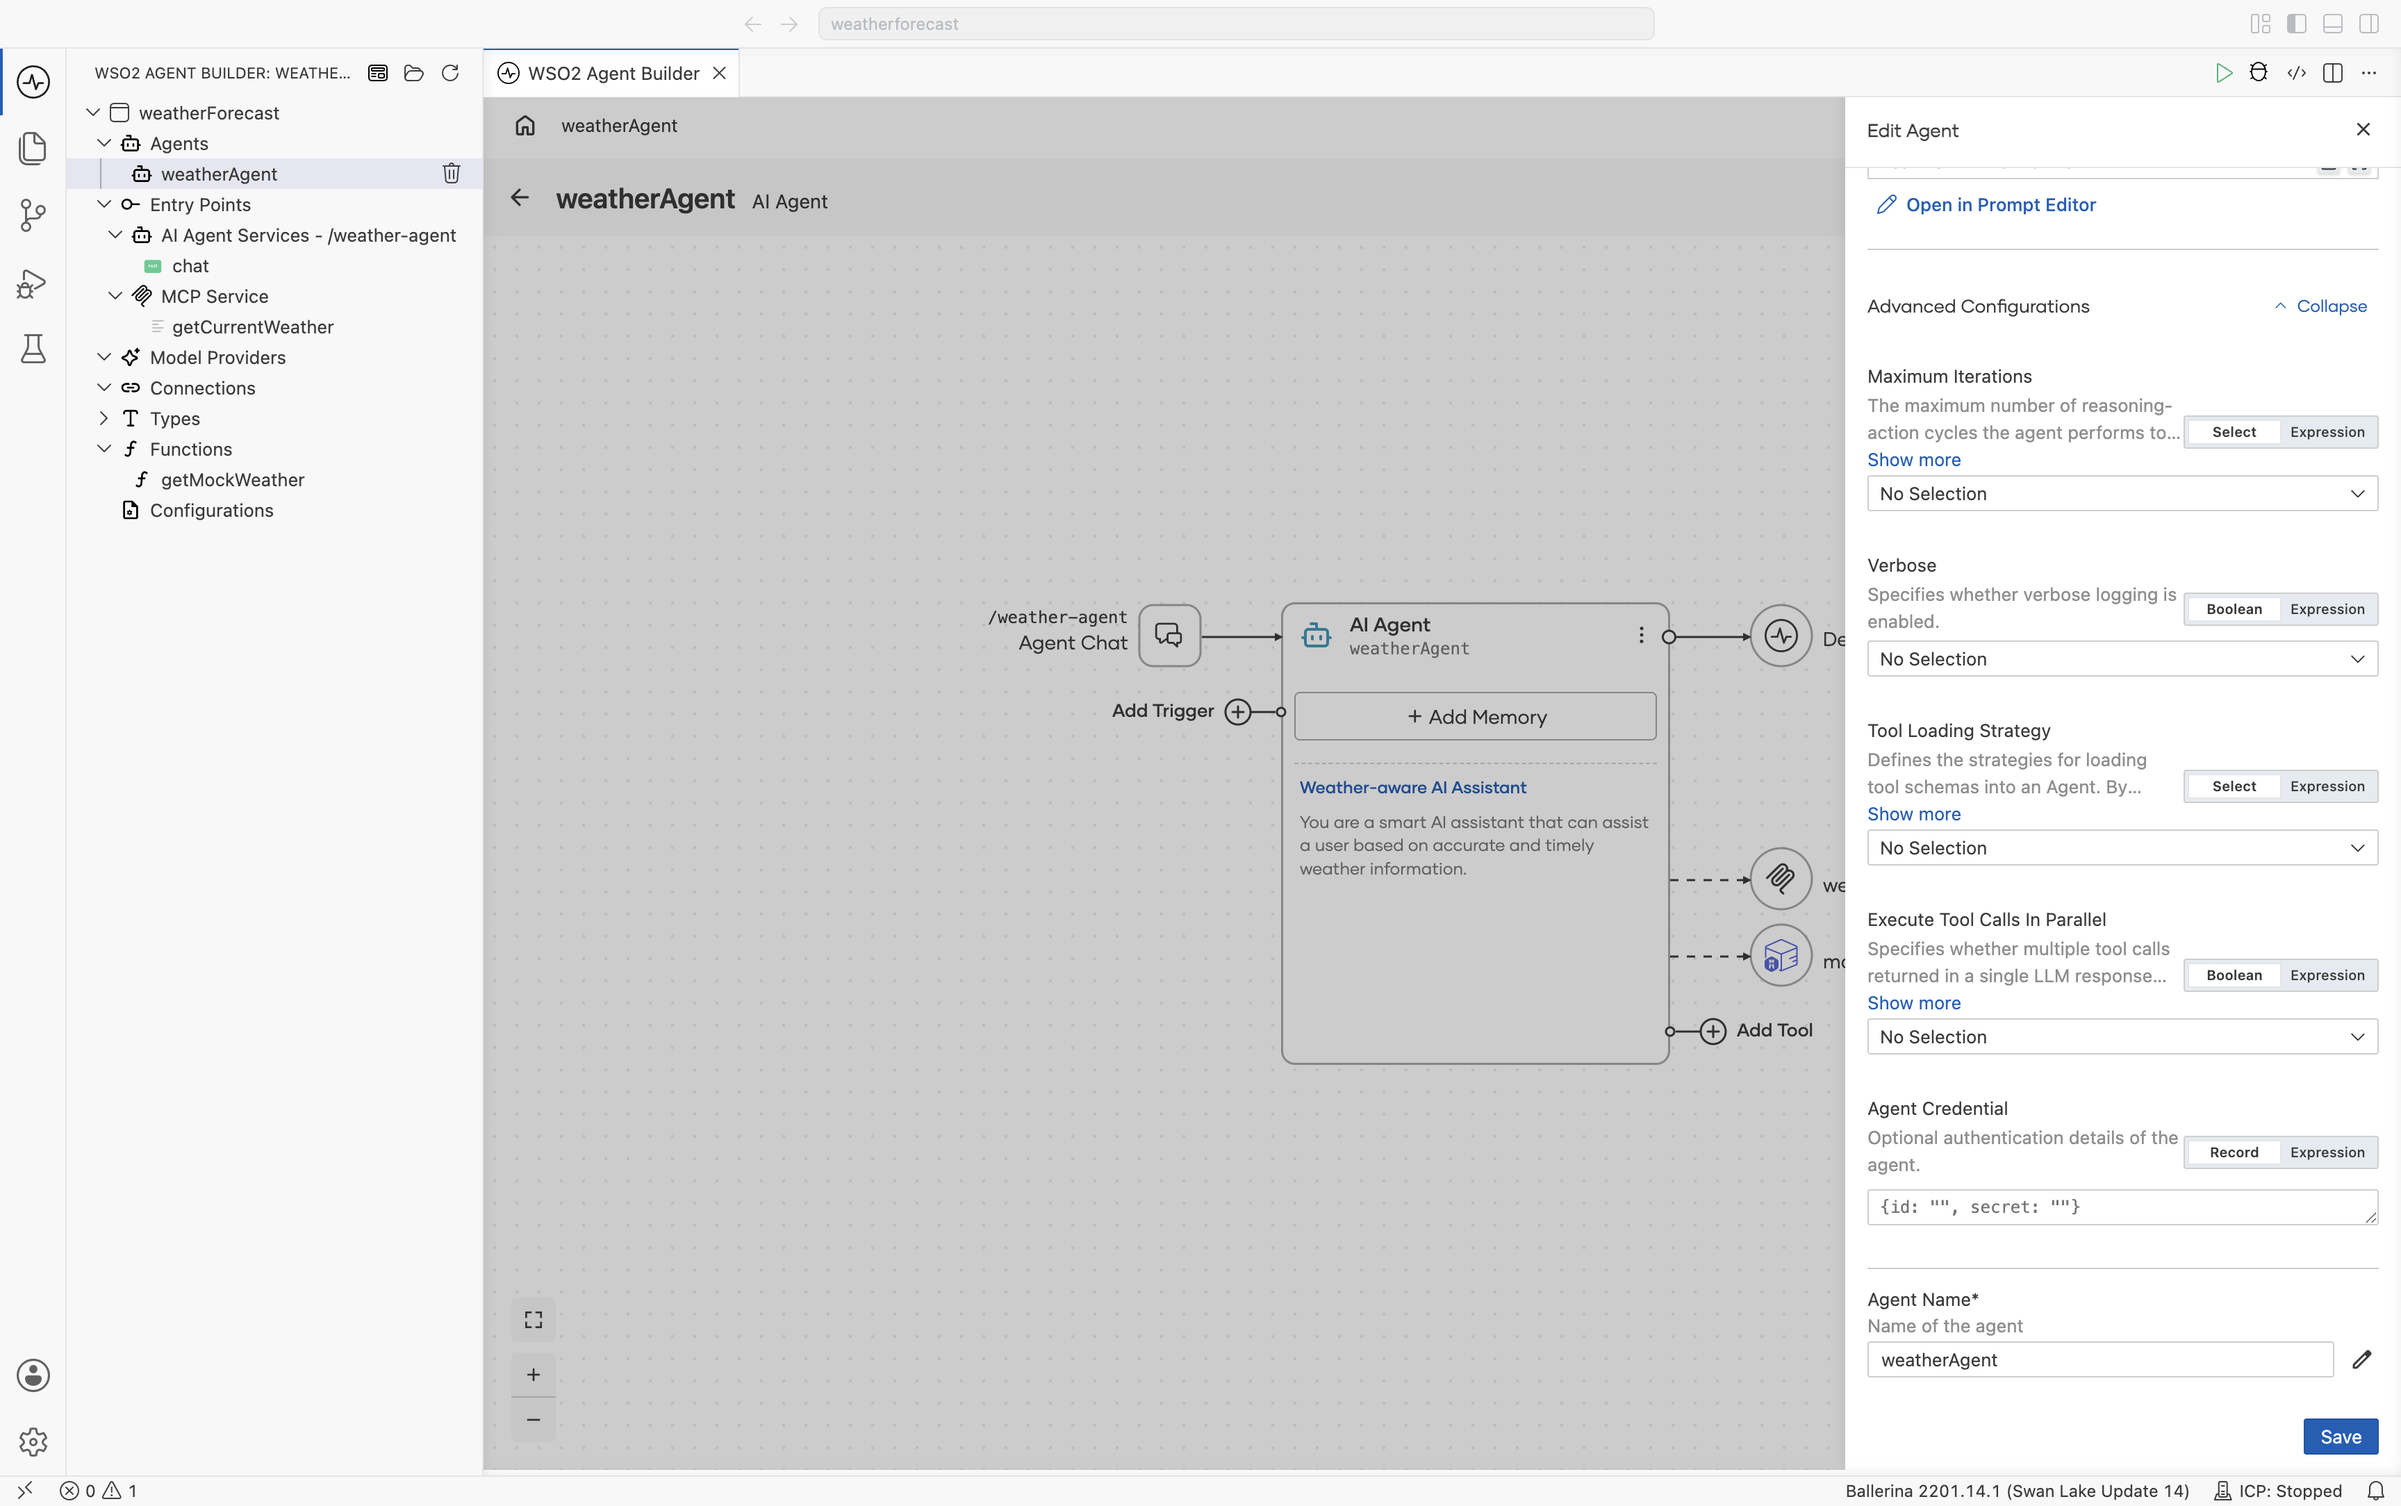
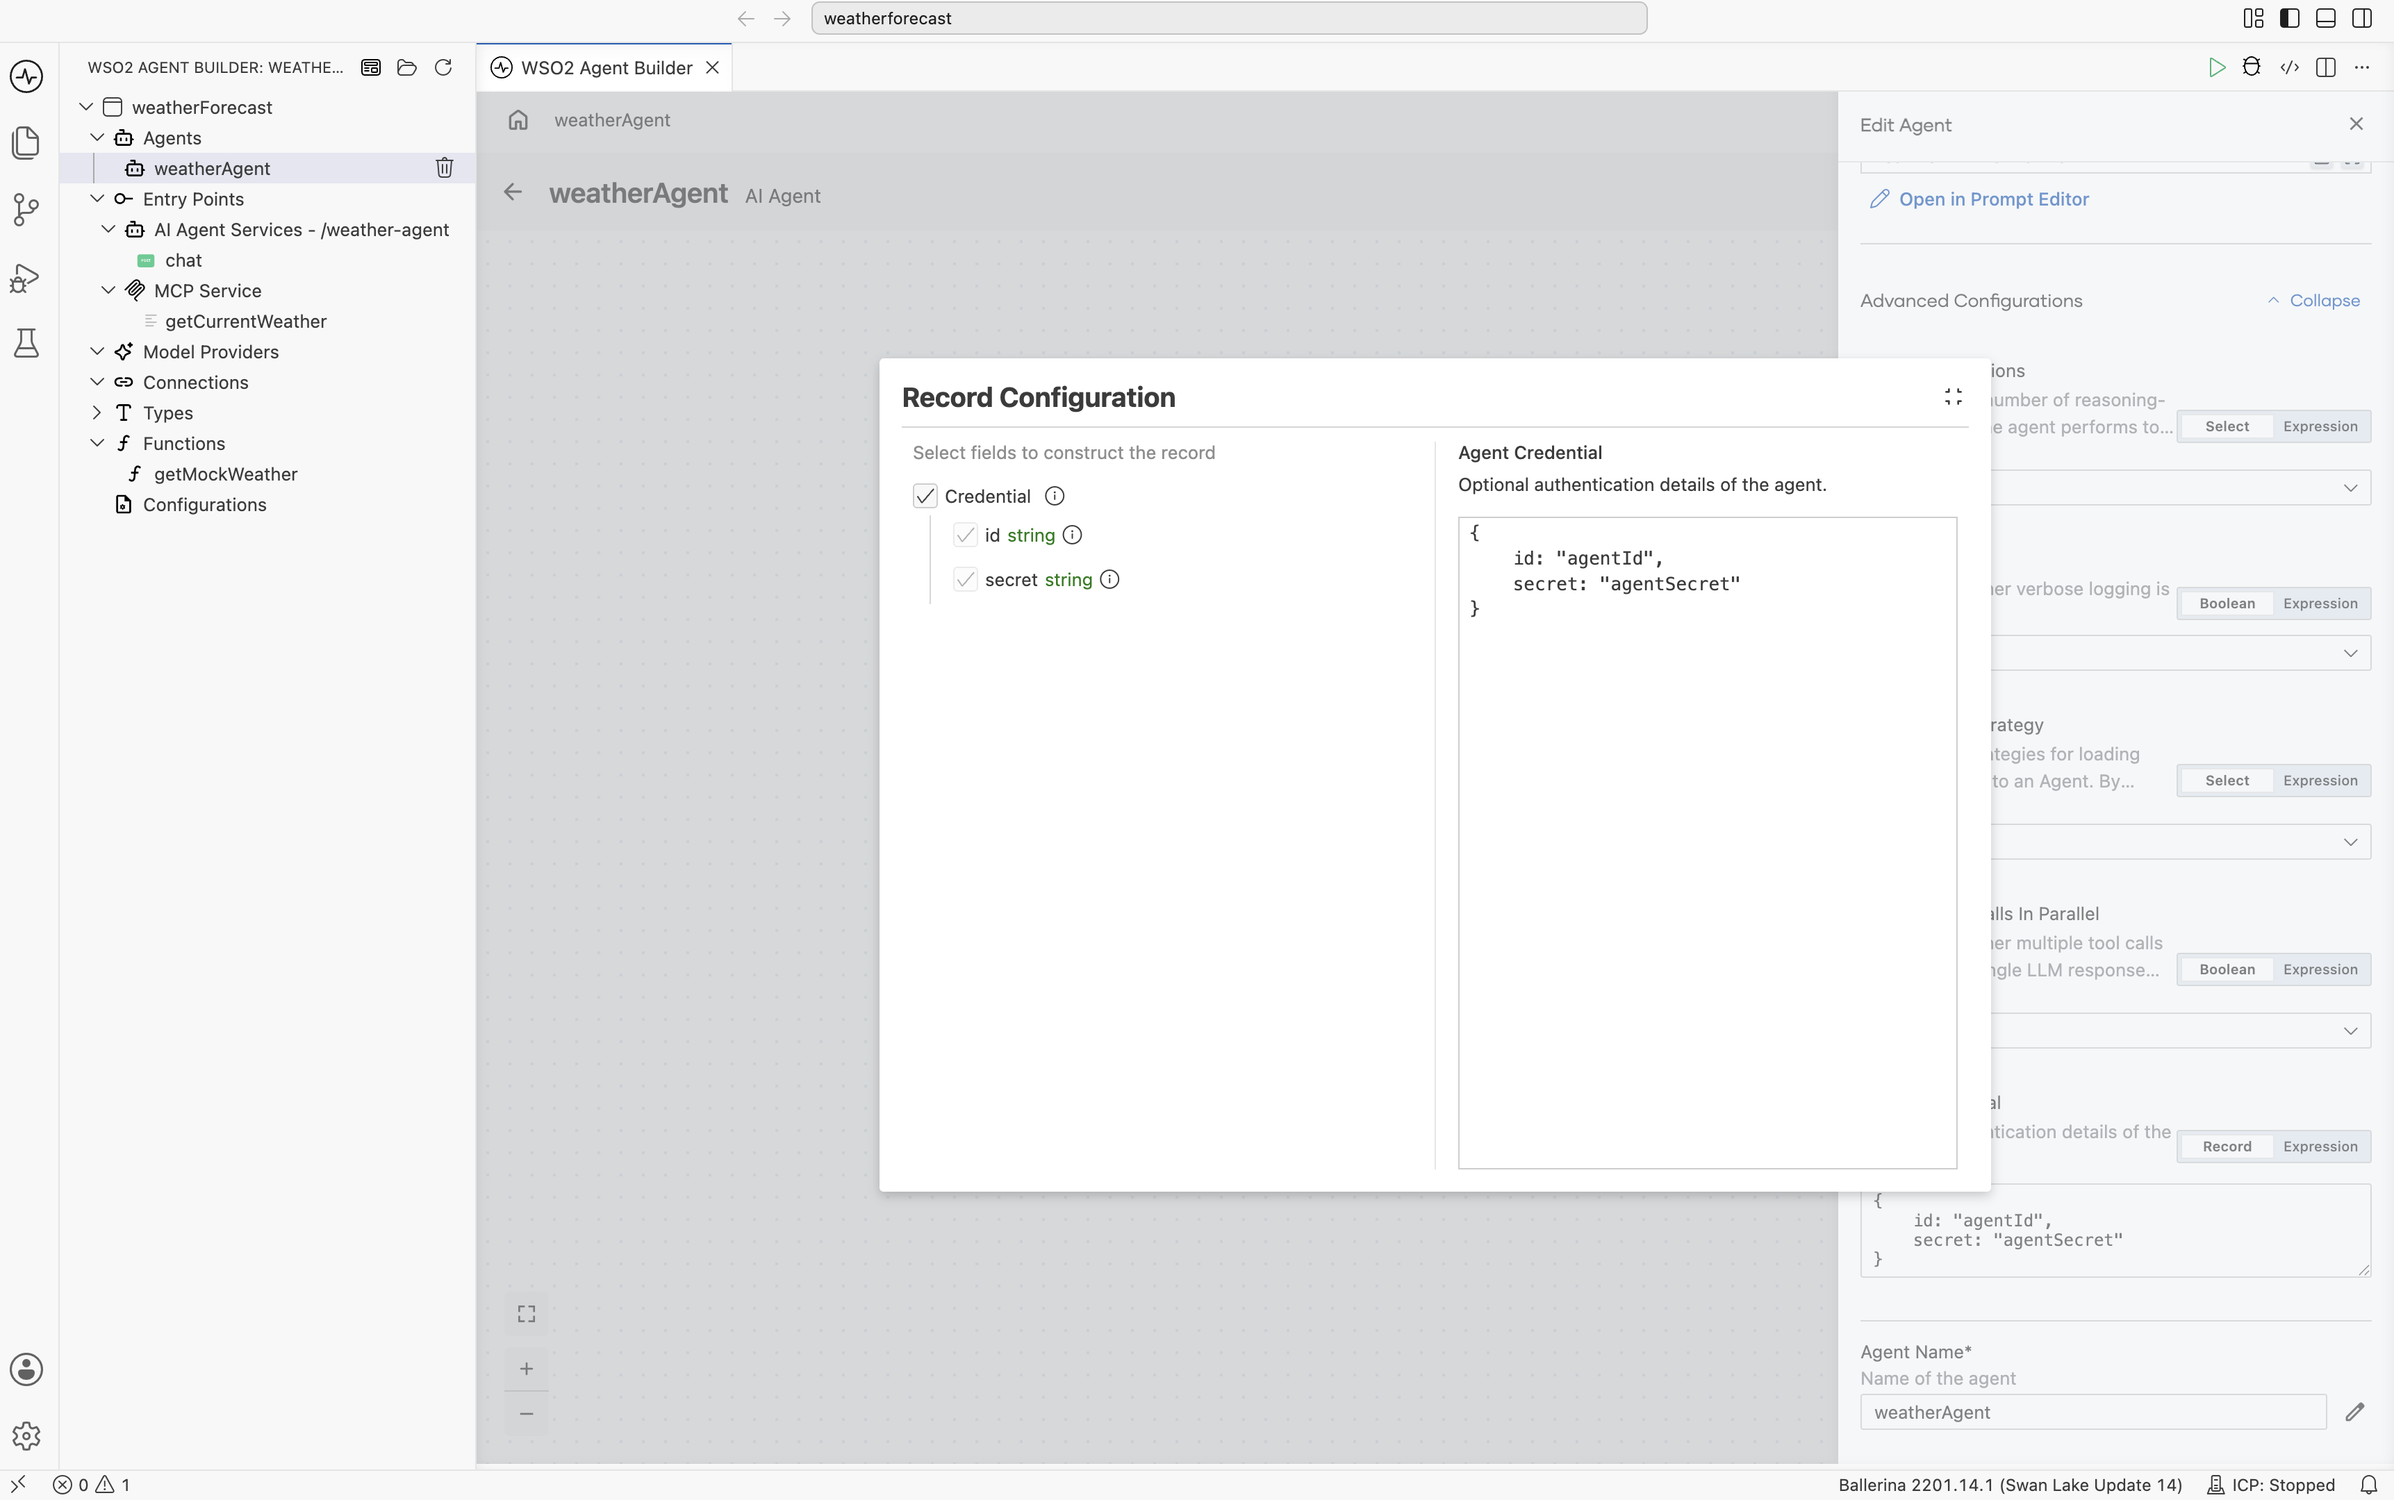
Update image

diff --git a/en/docs/develop-and-test/integration-artifacts/ai-integrations/agents/identity-and-access-management.md b/en/docs/develop-and-test/integration-artifacts/ai-integrations/agents/identity-and-access-management.md
@@ -56,7 +56,7 @@ If you plan to use [WSO2 Asgardeo](https://wso2.com/asgardeo/docs/get-started/cr
     }}
 />
 
-2. Provide the **Agent ID** and **Agent Secret** obtained from the authorization server.
+2. Provide the **Agent ID** and **Agent Secret** obtained from the authorization server in the Agent Credential configuration..
 
 <ThemedImage
     alt="Credential input fields showing Agent ID and Agent Secret fields."
@@ -70,7 +70,7 @@ If you plan to use [WSO2 Asgardeo](https://wso2.com/asgardeo/docs/get-started/cr
 
 ### Configure auth for an MCP tool
 
-1. Click on the attached MCP Toolkit in the agent to open the configuration form.
+1. Click the attached MCP Toolkit in the agent to open the configuration form, then enable **Requires Authentication**.
 
 2. In the **Auth** Configuration Panel, select the authentication type as **AgentIdAuthConfig** and update the values obtained from the authorization server.
 
@@ -121,8 +121,8 @@ If you plan to use [WSO2 Asgardeo](https://wso2.com/asgardeo/docs/get-started/cr
 <ThemedImage
     alt="Advanced configuration"
     sources={{
-        light: useBaseUrl('/img/genai/develop/agents/33-tool-advanced-config-v1.0.png'),
-        dark: useBaseUrl('/img/genai/develop/agents/33-tool-advanced-config-v1.0.png'),
+        light: useBaseUrl('/img/genai/develop/agents/33-tool-advanced-config.png'),
+        dark: useBaseUrl('/img/genai/develop/agents/33-tool-advanced-config.png'),
     }}
 />
 
